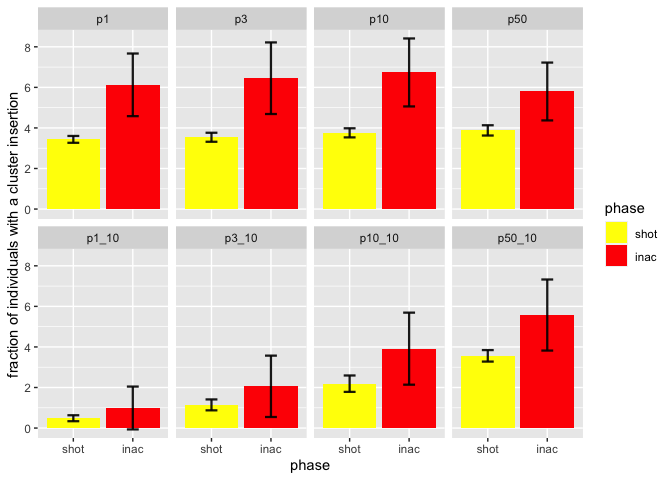
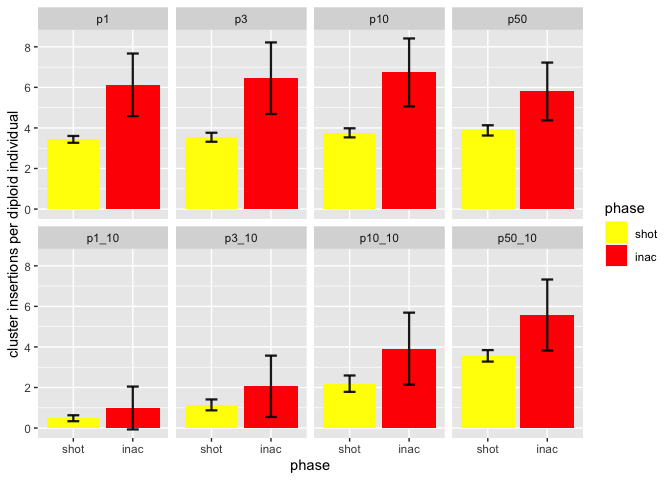
Minor fix

Changed region(s): [[0.0, 0.1875, 0.0312, 0.7812]]

diff --git a/Simulation/2022_08_29_Simulation_3_clusters.md b/Simulation/2022_08_29_Simulation_3_clusters.md
@@ -155,7 +155,7 @@ e <- df2 %>%
 g2_2 <- ggplot(e, aes(x=phase, y=mean_avcli, fill = phase)) + 
   geom_bar(stat = "identity") +
   geom_errorbar( aes(x=phase, ymin=mean_avcli-sd_avcli, ymax=mean_avcli+sd_avcli), width=0.2, colour="black", alpha=0.9, size=0.8)+
-  ylab("fraction of individuals with a cluster insertion")+
+  ylab("cluster insertions per diploid individual")+
   xlab("phase")+
   scale_fill_manual(values = c("yellow", "red"))+
   facet_wrap(~sampleid, ncol=4)
